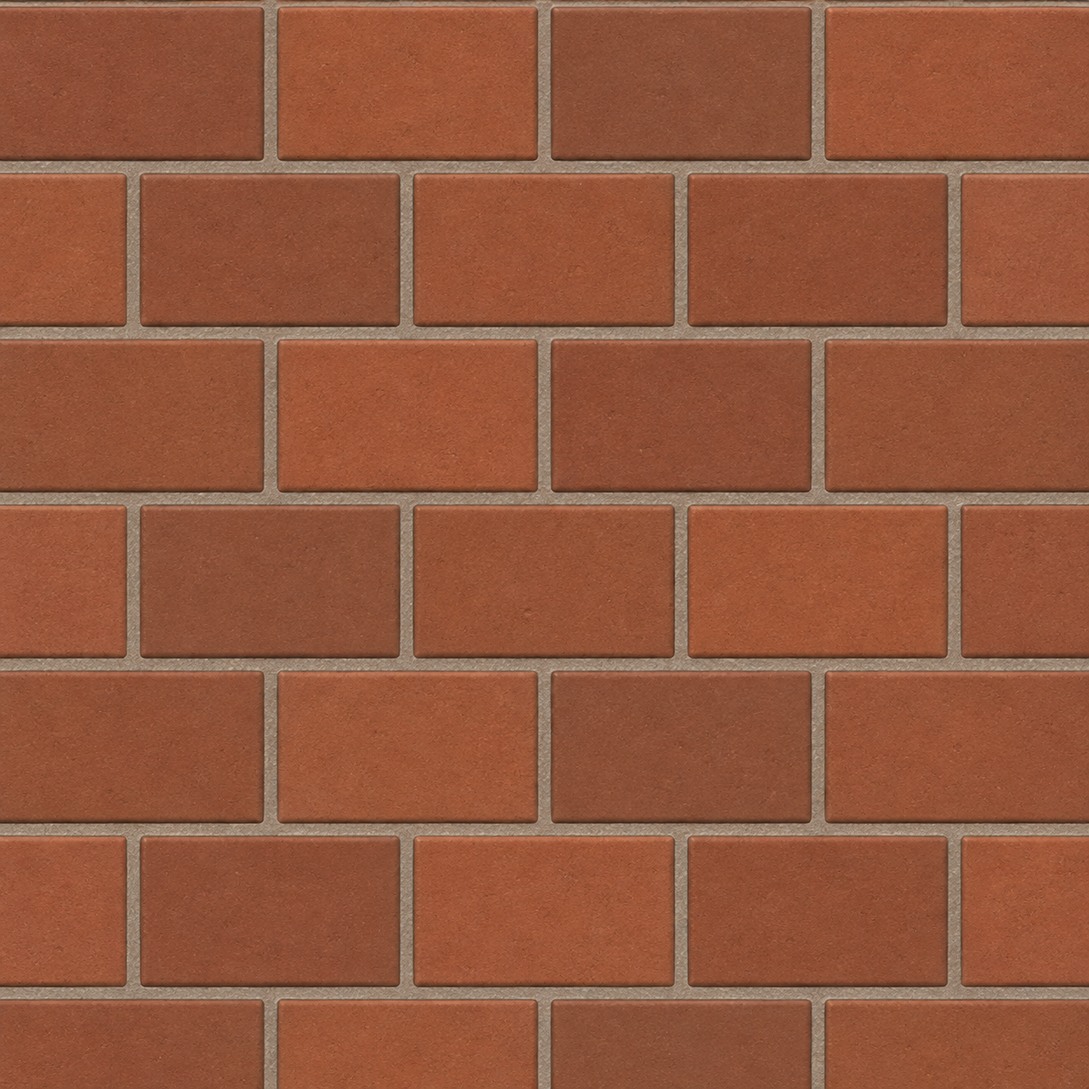
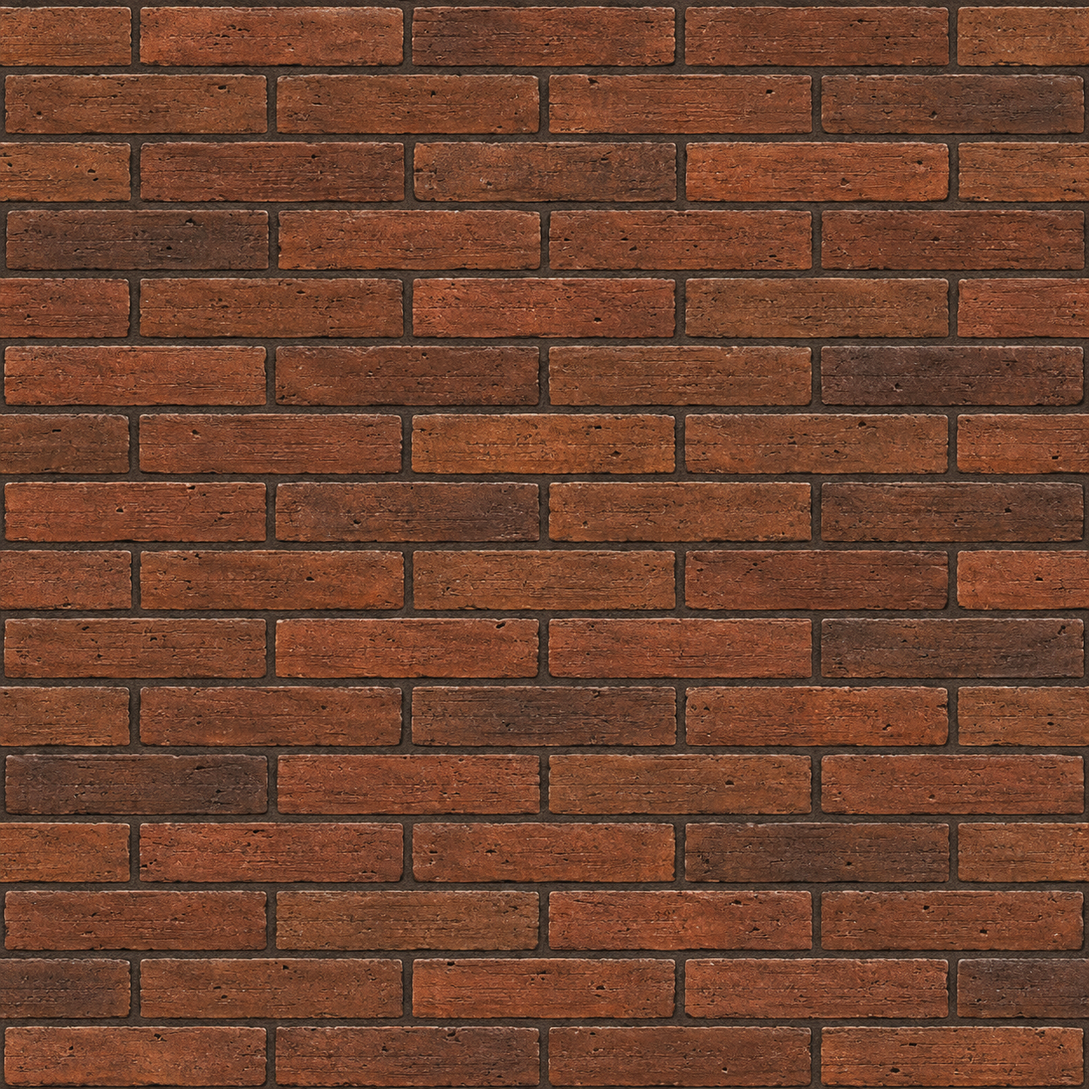
art: replace tiled shells and decks with tactile industrial materials

diff --git a/frontend/assets/industrial/space-preview.html b/frontend/assets/industrial/space-preview.html
@@ -4,7 +4,7 @@
 *{box-sizing:border-box}body{margin:0;background:#0e1419;color:#e3e8ea;font:16px/1.5 system-ui;padding:40px}header{max-width:860px;margin-bottom:40px}h1{font-size:44px;line-height:1.1;margin:12px 0}h2{font-size:24px;margin-top:44px}p{color:#a5b2bc}a{color:#c5af81}nav{display:flex;gap:20px}section{display:grid;grid-template-columns:repeat(3,minmax(0,1fr));gap:24px}article{min-width:0;background:#172027;border:1px solid #303d47;padding:16px}h3{margin:0 0 14px;font-size:17px}.art{display:block;width:100%;aspect-ratio:1;object-fit:cover}.wall .art{aspect-ratio:1.5}.repeat{height:144px;background-size:96px 96px}.wall .repeat{height:90px;background-size:144px 90px}small{display:block;color:#a5b2bc;margin:16px 0 8px}.eyebrow{font-size:12px;letter-spacing:.18em;color:#c5af81}footer{margin-top:36px}@media(max-width:900px){section{grid-template-columns:repeat(2,minmax(0,1fr))}body{padding:24px}}@media(max-width:600px){section{grid-template-columns:1fr}}
 </style>
 <header><div class="eyebrow">STARNET / MATERIAL LIBRARY / 11 NEW SURFACES</div><h1>Built for life in orbit.</h1><p>Thermal shields, clean walking decks and quiet habitat walls. Three space shells, four floors and four walls, with broad shapes and restrained detail.</p><nav><a href="#shell">Shells</a><a href="#floor">Floors</a><a href="#wall">Walls</a><a href="shell-clean-preview.html">Cleaner classics</a></nav><p>Choose these additions in REFIT → SURFACE. These swatches show the original artwork; the station applies your paint colour and lighting.</p></header>
-<h2 id="shell">01 / Space shells</h2><section><article class="shell"><h3>Thermal Ceramic</h3><a href="shell-thermal.png"><img class="art" src="shell-thermal.png" alt="Thermal Ceramic texture" loading="lazy"></a><small>REPEAT AT STATION SCALE</small><div class="repeat" style="background-image:url('shell-thermal.png')"></div></article><article class="shell"><h3>Orbital Insulation</h3><a href="shell-insulation.png"><img class="art" src="shell-insulation.png" alt="Orbital Insulation texture" loading="lazy"></a><small>REPEAT AT STATION SCALE</small><div class="repeat" style="background-image:url('shell-insulation.png')"></div></article><article class="shell"><h3>Radiator Cladding</h3><a href="shell-heatsink.png"><img class="art" src="shell-heatsink.png" alt="Radiator Cladding texture" loading="lazy"></a><small>REPEAT AT STATION SCALE</small><div class="repeat" style="background-image:url('shell-heatsink.png')"></div></article></section>
-<h2 id="floor">02 / Walking decks</h2><section><article class="floor"><h3>Flight Deck</h3><a href="floor-flightdeck.png"><img class="art" src="floor-flightdeck.png" alt="Flight Deck texture" loading="lazy"></a><small>REPEAT AT STATION SCALE</small><div class="repeat" style="background-image:url('floor-flightdeck.png')"></div></article><article class="floor"><h3>Lunar Composite</h3><a href="floor-lunar.png"><img class="art" src="floor-lunar.png" alt="Lunar Composite texture" loading="lazy"></a><small>REPEAT AT STATION SCALE</small><div class="repeat" style="background-image:url('floor-lunar.png')"></div></article><article class="floor"><h3>Magnetic Grid</h3><a href="floor-maggrid.png"><img class="art" src="floor-maggrid.png" alt="Magnetic Grid texture" loading="lazy"></a><small>REPEAT AT STATION SCALE</small><div class="repeat" style="background-image:url('floor-maggrid.png')"></div></article><article class="floor"><h3>Habitat Tile</h3><a href="floor-habitat.png"><img class="art" src="floor-habitat.png" alt="Habitat Tile texture" loading="lazy"></a><small>REPEAT AT STATION SCALE</small><div class="repeat" style="background-image:url('floor-habitat.png')"></div></article></section>
+<h2 id="shell">01 / Space shells</h2><section><article class="shell"><h3>Carbon Thermal Shield</h3><a href="shell-thermal.png"><img class="art" src="shell-thermal.png" alt="Carbon Thermal Shield texture" loading="lazy"></a><small>REPEAT AT STATION SCALE</small><div class="repeat" style="background-image:url('shell-thermal.png')"></div></article><article class="shell"><h3>Orbital Insulation</h3><a href="shell-insulation.png"><img class="art" src="shell-insulation.png" alt="Orbital Insulation texture" loading="lazy"></a><small>REPEAT AT STATION SCALE</small><div class="repeat" style="background-image:url('shell-insulation.png')"></div></article><article class="shell"><h3>Radiator Cladding</h3><a href="shell-heatsink.png"><img class="art" src="shell-heatsink.png" alt="Radiator Cladding texture" loading="lazy"></a><small>REPEAT AT STATION SCALE</small><div class="repeat" style="background-image:url('shell-heatsink.png')"></div></article></section>
+<h2 id="floor">02 / Walking decks</h2><section><article class="floor"><h3>Flight Deck</h3><a href="floor-flightdeck.png"><img class="art" src="floor-flightdeck.png" alt="Flight Deck texture" loading="lazy"></a><small>REPEAT AT STATION SCALE</small><div class="repeat" style="background-image:url('floor-flightdeck.png')"></div></article><article class="floor"><h3>Lunar Composite</h3><a href="floor-lunar.png"><img class="art" src="floor-lunar.png" alt="Lunar Composite texture" loading="lazy"></a><small>REPEAT AT STATION SCALE</small><div class="repeat" style="background-image:url('floor-lunar.png')"></div></article><article class="floor"><h3>Magnetic Grid</h3><a href="floor-maggrid.png"><img class="art" src="floor-maggrid.png" alt="Magnetic Grid texture" loading="lazy"></a><small>REPEAT AT STATION SCALE</small><div class="repeat" style="background-image:url('floor-maggrid.png')"></div></article><article class="floor"><h3>Habitat Rubber</h3><a href="floor-habitat.png"><img class="art" src="floor-habitat.png" alt="Habitat Rubber texture" loading="lazy"></a><small>REPEAT AT STATION SCALE</small><div class="repeat" style="background-image:url('floor-habitat.png')"></div></article></section>
 <h2 id="wall">03 / Interior walls</h2><section><article class="wall"><h3>Pressure Panels</h3><a href="wall-pressure.png"><img class="art" src="wall-pressure.png" alt="Pressure Panels texture" loading="lazy"></a><small>REPEAT AT STATION SCALE</small><div class="repeat" style="background-image:url('wall-pressure.png')"></div></article><article class="wall"><h3>Radiator Wall</h3><a href="wall-radiator.png"><img class="art" src="wall-radiator.png" alt="Radiator Wall texture" loading="lazy"></a><small>REPEAT AT STATION SCALE</small><div class="repeat" style="background-image:url('wall-radiator.png')"></div></article><article class="wall"><h3>Utility Panels</h3><a href="wall-utility.png"><img class="art" src="wall-utility.png" alt="Utility Panels texture" loading="lazy"></a><small>REPEAT AT STATION SCALE</small><div class="repeat" style="background-image:url('wall-utility.png')"></div></article><article class="wall"><h3>Padded Wall</h3><a href="wall-acoustic.png"><img class="art" src="wall-acoustic.png" alt="Padded Wall texture" loading="lazy"></a><small>REPEAT AT STATION SCALE</small><div class="repeat" style="background-image:url('wall-acoustic.png')"></div></article></section>
-<footer><a href="SPACE-MATERIALS.md">Exact generation prompts and asset notes</a></footer></html>
+<footer><a href="MATERIAL-REVISIONS.md">Exact generation prompts and asset notes</a></footer></html>

diff --git a/website/app/assets/industrial/space-preview.html b/website/app/assets/industrial/space-preview.html
@@ -4,7 +4,7 @@
 *{box-sizing:border-box}body{margin:0;background:#0e1419;color:#e3e8ea;font:16px/1.5 system-ui;padding:40px}header{max-width:860px;margin-bottom:40px}h1{font-size:44px;line-height:1.1;margin:12px 0}h2{font-size:24px;margin-top:44px}p{color:#a5b2bc}a{color:#c5af81}nav{display:flex;gap:20px}section{display:grid;grid-template-columns:repeat(3,minmax(0,1fr));gap:24px}article{min-width:0;background:#172027;border:1px solid #303d47;padding:16px}h3{margin:0 0 14px;font-size:17px}.art{display:block;width:100%;aspect-ratio:1;object-fit:cover}.wall .art{aspect-ratio:1.5}.repeat{height:144px;background-size:96px 96px}.wall .repeat{height:90px;background-size:144px 90px}small{display:block;color:#a5b2bc;margin:16px 0 8px}.eyebrow{font-size:12px;letter-spacing:.18em;color:#c5af81}footer{margin-top:36px}@media(max-width:900px){section{grid-template-columns:repeat(2,minmax(0,1fr))}body{padding:24px}}@media(max-width:600px){section{grid-template-columns:1fr}}
 </style>
 <header><div class="eyebrow">STARNET / MATERIAL LIBRARY / 11 NEW SURFACES</div><h1>Built for life in orbit.</h1><p>Thermal shields, clean walking decks and quiet habitat walls. Three space shells, four floors and four walls, with broad shapes and restrained detail.</p><nav><a href="#shell">Shells</a><a href="#floor">Floors</a><a href="#wall">Walls</a><a href="shell-clean-preview.html">Cleaner classics</a></nav><p>Choose these additions in REFIT → SURFACE. These swatches show the original artwork; the station applies your paint colour and lighting.</p></header>
-<h2 id="shell">01 / Space shells</h2><section><article class="shell"><h3>Thermal Ceramic</h3><a href="shell-thermal.png"><img class="art" src="shell-thermal.png" alt="Thermal Ceramic texture" loading="lazy"></a><small>REPEAT AT STATION SCALE</small><div class="repeat" style="background-image:url('shell-thermal.png')"></div></article><article class="shell"><h3>Orbital Insulation</h3><a href="shell-insulation.png"><img class="art" src="shell-insulation.png" alt="Orbital Insulation texture" loading="lazy"></a><small>REPEAT AT STATION SCALE</small><div class="repeat" style="background-image:url('shell-insulation.png')"></div></article><article class="shell"><h3>Radiator Cladding</h3><a href="shell-heatsink.png"><img class="art" src="shell-heatsink.png" alt="Radiator Cladding texture" loading="lazy"></a><small>REPEAT AT STATION SCALE</small><div class="repeat" style="background-image:url('shell-heatsink.png')"></div></article></section>
-<h2 id="floor">02 / Walking decks</h2><section><article class="floor"><h3>Flight Deck</h3><a href="floor-flightdeck.png"><img class="art" src="floor-flightdeck.png" alt="Flight Deck texture" loading="lazy"></a><small>REPEAT AT STATION SCALE</small><div class="repeat" style="background-image:url('floor-flightdeck.png')"></div></article><article class="floor"><h3>Lunar Composite</h3><a href="floor-lunar.png"><img class="art" src="floor-lunar.png" alt="Lunar Composite texture" loading="lazy"></a><small>REPEAT AT STATION SCALE</small><div class="repeat" style="background-image:url('floor-lunar.png')"></div></article><article class="floor"><h3>Magnetic Grid</h3><a href="floor-maggrid.png"><img class="art" src="floor-maggrid.png" alt="Magnetic Grid texture" loading="lazy"></a><small>REPEAT AT STATION SCALE</small><div class="repeat" style="background-image:url('floor-maggrid.png')"></div></article><article class="floor"><h3>Habitat Tile</h3><a href="floor-habitat.png"><img class="art" src="floor-habitat.png" alt="Habitat Tile texture" loading="lazy"></a><small>REPEAT AT STATION SCALE</small><div class="repeat" style="background-image:url('floor-habitat.png')"></div></article></section>
+<h2 id="shell">01 / Space shells</h2><section><article class="shell"><h3>Carbon Thermal Shield</h3><a href="shell-thermal.png"><img class="art" src="shell-thermal.png" alt="Carbon Thermal Shield texture" loading="lazy"></a><small>REPEAT AT STATION SCALE</small><div class="repeat" style="background-image:url('shell-thermal.png')"></div></article><article class="shell"><h3>Orbital Insulation</h3><a href="shell-insulation.png"><img class="art" src="shell-insulation.png" alt="Orbital Insulation texture" loading="lazy"></a><small>REPEAT AT STATION SCALE</small><div class="repeat" style="background-image:url('shell-insulation.png')"></div></article><article class="shell"><h3>Radiator Cladding</h3><a href="shell-heatsink.png"><img class="art" src="shell-heatsink.png" alt="Radiator Cladding texture" loading="lazy"></a><small>REPEAT AT STATION SCALE</small><div class="repeat" style="background-image:url('shell-heatsink.png')"></div></article></section>
+<h2 id="floor">02 / Walking decks</h2><section><article class="floor"><h3>Flight Deck</h3><a href="floor-flightdeck.png"><img class="art" src="floor-flightdeck.png" alt="Flight Deck texture" loading="lazy"></a><small>REPEAT AT STATION SCALE</small><div class="repeat" style="background-image:url('floor-flightdeck.png')"></div></article><article class="floor"><h3>Lunar Composite</h3><a href="floor-lunar.png"><img class="art" src="floor-lunar.png" alt="Lunar Composite texture" loading="lazy"></a><small>REPEAT AT STATION SCALE</small><div class="repeat" style="background-image:url('floor-lunar.png')"></div></article><article class="floor"><h3>Magnetic Grid</h3><a href="floor-maggrid.png"><img class="art" src="floor-maggrid.png" alt="Magnetic Grid texture" loading="lazy"></a><small>REPEAT AT STATION SCALE</small><div class="repeat" style="background-image:url('floor-maggrid.png')"></div></article><article class="floor"><h3>Habitat Rubber</h3><a href="floor-habitat.png"><img class="art" src="floor-habitat.png" alt="Habitat Rubber texture" loading="lazy"></a><small>REPEAT AT STATION SCALE</small><div class="repeat" style="background-image:url('floor-habitat.png')"></div></article></section>
 <h2 id="wall">03 / Interior walls</h2><section><article class="wall"><h3>Pressure Panels</h3><a href="wall-pressure.png"><img class="art" src="wall-pressure.png" alt="Pressure Panels texture" loading="lazy"></a><small>REPEAT AT STATION SCALE</small><div class="repeat" style="background-image:url('wall-pressure.png')"></div></article><article class="wall"><h3>Radiator Wall</h3><a href="wall-radiator.png"><img class="art" src="wall-radiator.png" alt="Radiator Wall texture" loading="lazy"></a><small>REPEAT AT STATION SCALE</small><div class="repeat" style="background-image:url('wall-radiator.png')"></div></article><article class="wall"><h3>Utility Panels</h3><a href="wall-utility.png"><img class="art" src="wall-utility.png" alt="Utility Panels texture" loading="lazy"></a><small>REPEAT AT STATION SCALE</small><div class="repeat" style="background-image:url('wall-utility.png')"></div></article><article class="wall"><h3>Padded Wall</h3><a href="wall-acoustic.png"><img class="art" src="wall-acoustic.png" alt="Padded Wall texture" loading="lazy"></a><small>REPEAT AT STATION SCALE</small><div class="repeat" style="background-image:url('wall-acoustic.png')"></div></article></section>
-<footer><a href="SPACE-MATERIALS.md">Exact generation prompts and asset notes</a></footer></html>
+<footer><a href="MATERIAL-REVISIONS.md">Exact generation prompts and asset notes</a></footer></html>

diff --git a/frontend/app/worldmodel.js b/frontend/app/worldmodel.js
@@ -222,9 +222,9 @@ const WorldModel = (() => {
     terrazzo: { label: 'TERRAZZO', pitch: [4, 4], suggest: 'hull' },
     octile:   { label: 'OCTILE',   pitch: [2, 2], suggest: 'sterile' },
     flightdeck: { label: 'FLIGHT DECK', pitch: [2, 2], suggest: 'hull' },
-    lunar: { label: 'LUNAR', pitch: [4, 2], suggest: 'ash' },
+    lunar: { label: 'LUNAR', pitch: [4, 2], suggest: 'sterile' },
     maggrid: { label: 'MAG GRID', pitch: [2, 2], suggest: 'corridor' },
-    habitat: { label: 'HABITAT', pitch: [2, 2], suggest: 'bone' },
+    habitat: { label: 'HABITAT', pitch: [2, 2], suggest: 'corridor' },
   };
   const MAT_ORDER = ['spine', 'alloy', 'runner', 'treadway', 'meshway', 'plate', 'diamond', 'cargo', 'panel', 'tile', 'ceramic', 'resin', 'tread', 'soft', 'grate', 'hex', 'plank', 'turf', 'basalt', 'parquet', 'rubber', 'slotted', 'terrazzo', 'octile', 'flightdeck', 'lunar', 'maggrid', 'habitat'];
 
@@ -282,14 +282,14 @@ const WorldModel = (() => {
     timber:    { label: 'TIMBER',    suggest: 'walnut', blurb: 'stacked log courses — the cabin' },
     clapboard: { label: 'CLAPBOARD', suggest: 'ash',    blurb: 'lapped siding boards — the farmhouse' },
     shingle:   { label: 'SHINGLE',   suggest: 'oak',    blurb: 'overlapping shingles — a pitched roof from above' },
-    brick:     { label: 'BRICK',     suggest: 'rust',   blurb: 'staggered courses + mortar — the townhouse' },
+    brick:     { label: 'BRICK',     suggest: 'ember',  blurb: 'narrow fired-clay masonry with dark recessed mortar' },
     stone:     { label: 'STONE',     suggest: 'ash',    blurb: 'irregular rubble masonry — the cottage' },
     stucco:    { label: 'STUCCO',    suggest: 'amber',  blurb: 'rendered plaster + corner quoins — adobe' },
     curtain:   { label: 'CURTAIN',   suggest: 'indigo', blurb: 'glass curtain wall + mullions — the tower' },
     hedge:     { label: 'HEDGE',     suggest: 'fern',   blurb: 'clipped hedge — the garden wall' },
   };
   Object.assign(HULL_MATERIALS, {
-    thermal: { label: 'THERMAL', suggest: 'bone', blurb: 'clean ceramic thermal shield with broad staggered panels' },
+    thermal: { label: 'THERMAL', suggest: 'hull', blurb: 'dark carbon thermal shielding with interlocking armor panels' },
     insulation: { label: 'INSULATION', suggest: 'amber', blurb: 'quilted orbital insulation with restrained foil folds' },
     heatsink: { label: 'HEATSINK', suggest: 'hull', blurb: 'radiator fins between calm graphite cladding panels' }
   });

diff --git a/website/app/app/worldmodel.js b/website/app/app/worldmodel.js
@@ -222,9 +222,9 @@ const WorldModel = (() => {
     terrazzo: { label: 'TERRAZZO', pitch: [4, 4], suggest: 'hull' },
     octile:   { label: 'OCTILE',   pitch: [2, 2], suggest: 'sterile' },
     flightdeck: { label: 'FLIGHT DECK', pitch: [2, 2], suggest: 'hull' },
-    lunar: { label: 'LUNAR', pitch: [4, 2], suggest: 'ash' },
+    lunar: { label: 'LUNAR', pitch: [4, 2], suggest: 'sterile' },
     maggrid: { label: 'MAG GRID', pitch: [2, 2], suggest: 'corridor' },
-    habitat: { label: 'HABITAT', pitch: [2, 2], suggest: 'bone' },
+    habitat: { label: 'HABITAT', pitch: [2, 2], suggest: 'corridor' },
   };
   const MAT_ORDER = ['spine', 'alloy', 'runner', 'treadway', 'meshway', 'plate', 'diamond', 'cargo', 'panel', 'tile', 'ceramic', 'resin', 'tread', 'soft', 'grate', 'hex', 'plank', 'turf', 'basalt', 'parquet', 'rubber', 'slotted', 'terrazzo', 'octile', 'flightdeck', 'lunar', 'maggrid', 'habitat'];
 
@@ -282,14 +282,14 @@ const WorldModel = (() => {
     timber:    { label: 'TIMBER',    suggest: 'walnut', blurb: 'stacked log courses — the cabin' },
     clapboard: { label: 'CLAPBOARD', suggest: 'ash',    blurb: 'lapped siding boards — the farmhouse' },
     shingle:   { label: 'SHINGLE',   suggest: 'oak',    blurb: 'overlapping shingles — a pitched roof from above' },
-    brick:     { label: 'BRICK',     suggest: 'rust',   blurb: 'staggered courses + mortar — the townhouse' },
+    brick:     { label: 'BRICK',     suggest: 'ember',  blurb: 'narrow fired-clay masonry with dark recessed mortar' },
     stone:     { label: 'STONE',     suggest: 'ash',    blurb: 'irregular rubble masonry — the cottage' },
     stucco:    { label: 'STUCCO',    suggest: 'amber',  blurb: 'rendered plaster + corner quoins — adobe' },
     curtain:   { label: 'CURTAIN',   suggest: 'indigo', blurb: 'glass curtain wall + mullions — the tower' },
     hedge:     { label: 'HEDGE',     suggest: 'fern',   blurb: 'clipped hedge — the garden wall' },
   };
   Object.assign(HULL_MATERIALS, {
-    thermal: { label: 'THERMAL', suggest: 'bone', blurb: 'clean ceramic thermal shield with broad staggered panels' },
+    thermal: { label: 'THERMAL', suggest: 'hull', blurb: 'dark carbon thermal shielding with interlocking armor panels' },
     insulation: { label: 'INSULATION', suggest: 'amber', blurb: 'quilted orbital insulation with restrained foil folds' },
     heatsink: { label: 'HEATSINK', suggest: 'hull', blurb: 'radiator fins between calm graphite cladding panels' }
   });

diff --git a/frontend/assets/industrial/MATERIAL-REVISIONS.md b/frontend/assets/industrial/MATERIAL-REVISIONS.md
@@ -1,0 +1,60 @@
+# Material revisions — September 16, 2026
+
+Replaces the rejected brick, white thermal cladding, default deck and four added floors. Built-in ImageGen, one new generation per texture. Files are unedited originals. Selected room paint remains authoritative; suggested colours now use ember for brick, hull for carbon thermal cladding, sterile for lunar and decking for habitat rubber.
+
+## Fired-clay masonry
+
+[shell-brick.png](shell-brick.png)
+
+Exact prompt:
+
+> Create one production-quality StarNet game material texture, square 1024x1024. A single orthographic flat surface filling every pixel. Precisely tileable seamless left/right and top/bottom. Equal diffuse illumination throughout, NO baked directional lighting, vignette or cast shadows. Every pixel fully opaque. Rich believable surface material with controlled low contrast, clean structure but naturally tactile surfaces. Strong material identity survives reduction to small game scale. No scene, perspective, room, props, border, caption, text, insignia, symbols or emissive lights. Exterior brick masonry. Authentic narrow handmade fired-clay bricks, rich russet, burnt sienna, iron brown and occasional darker umber bricks. Bricks approximately 3.6 times wider than tall; eight staggered running-bond courses. Each face has compressed clay striations and fine shallow irregular pits with subtly chipped squared edges. Very thin recessed DARK charcoal-brown mortar, never white mortar. Understated natural variation between bricks, warm earthy muted colors, not saturated orange. No bevelled tiles, glaze, glossy ceramic, rounded soap-bar edges, bolts, white brick or bathroom finish. Brick faces are dominant, joints unobtrusive. Disciplined believable maintained industrial masonry, not ruins.
+
+## Station deck
+
+[floor.png](floor.png)
+
+Exact prompt:
+
+> Create one production-quality StarNet game material texture, square 1024x1024. A single orthographic flat surface filling every pixel. Precisely tileable seamless left/right and top/bottom. Equal diffuse illumination throughout, NO baked directional lighting, vignette or cast shadows. Every pixel fully opaque. Rich believable surface material with controlled low contrast, clean structure but naturally tactile surfaces. Strong material identity survives reduction to small game scale. No scene, perspective, room, props, border, caption, text, insignia, symbols or emissive lights. TOP DOWN worn gunmetal spacecraft walking deck. Three broad staggered rectangular rolled-steel plates per row, three rows, not a chessboard of framed hatches. Flat broad charcoal-bluish steel surfaces with fine directional rolling marks, gentle large-scale tonal shifts, a few thin restrained shoe scuffs and small naturally rubbed steel marks. Tight hairline recessed joints in running bond. Very sparse tiny flush fasteners beside joins. Zero decorative square borders, connector nodes, gold lines, grilles, holes, raised frames, cracked rock, plastic or tessellated hex microtexture. Maintained ship interior with tactile used steel, not destroyed, no dirt blanket. Calm enough for game characters and furniture to read.
+
+## Flight deck revision
+
+[floor-flightdeck.png](floor-flightdeck.png)
+
+Exact prompt:
+
+> Create one production-quality StarNet game material texture, square 1024x1024. A single orthographic flat surface filling every pixel. Precisely tileable seamless left/right and top/bottom. Equal diffuse illumination throughout, NO baked directional lighting, vignette or cast shadows. Every pixel fully opaque. Rich believable surface material with controlled low contrast, clean structure but naturally tactile surfaces. Strong material identity survives reduction to small game scale. No scene, perspective, room, props, border, caption, text, insignia, symbols or emissive lights. TOP DOWN spacecraft hangar walking deck of large rectangular dark graphite nonslip steel plates, two long plates across and four courses tall, staggered narrow joints. Restrained very fine rolled traction texture integrated into metal, broad calm central faces. A pair of narrow dull desaturated ochre painted alignment ticks near a single panel seam in each repeating unit, understated and partly rubbed through. Thin flush expansion joints and extremely sparse inset screws. No octagonal tiles, no square connector buttons, no perimeter borders around each plate, no rails, no vents, no text, no hazard stripes. Convincing durable naval spacecraft flooring, sophisticated austere industrial design.
+
+## Basalt composite revision
+
+[floor-lunar.png](floor-lunar.png)
+
+Exact prompt:
+
+> Create one production-quality StarNet game material texture, square 1024x1024. A single orthographic flat surface filling every pixel. Precisely tileable seamless left/right and top/bottom. Equal diffuse illumination throughout, NO baked directional lighting, vignette or cast shadows. Every pixel fully opaque. Rich believable surface material with controlled low contrast, clean structure but naturally tactile surfaces. Strong material identity survives reduction to small game scale. No scene, perspective, room, props, border, caption, text, insignia, symbols or emissive lights. TOP DOWN continuous dark slate-gray mineral composite floor cast in two broad horizontal pours, one extremely subtle hairline construction joint halfway down. Fine dense sintered basalt texture, restrained irregular mineral flecks, gentle broad organic variation, smooth foot-worn matte surface. Dark neutral gray with tiny muted blue-gray mineral notes, dense and solid. No light concrete slabs, kitchen stone tiles, grout grid, rocks, craters, gravel, cracks, marble veins, bright speckles or shiny patches. Elegant serious spacecraft laboratory/workshop floor, low contrast and tactile.
+
+## Recessed-track deck revision
+
+[floor-maggrid.png](floor-maggrid.png)
+
+Exact prompt:
+
+> Create one production-quality StarNet game material texture, square 1024x1024. A single orthographic flat surface filling every pixel. Precisely tileable seamless left/right and top/bottom. Equal diffuse illumination throughout, NO baked directional lighting, vignette or cast shadows. Every pixel fully opaque. Rich believable surface material with controlled low contrast, clean structure but naturally tactile surfaces. Strong material identity survives reduction to small game scale. No scene, perspective, room, props, border, caption, text, insignia, symbols or emissive lights. TOP DOWN dark oxidized titanium utility walking floor. Broad charcoal metal strips run vertically, flush fitted, quiet satin brushed texture with sparse tiny scuff marks. Two extremely narrow dark recessed magnetic docking channels cross the image vertically at one quarter and three quarters width, with subtle muted steel inner edge. Otherwise uninterrupted plain surface; crosswise butt joins are staggered and hairline thin. No bright silver frames, no lattice, no four-sided square panel borders, no chunky junction boxes, no raised track rails, no high contrast checkerboard. Restrained crafted ship engineering, precise but worn in.
+
+## Habitat rubber revision
+
+[floor-habitat.png](floor-habitat.png)
+
+Exact prompt:
+
+> Create one production-quality StarNet game material texture, square 1024x1024. A single orthographic flat surface filling every pixel. Precisely tileable seamless left/right and top/bottom. Equal diffuse illumination throughout, NO baked directional lighting, vignette or cast shadows. Every pixel fully opaque. Rich believable surface material with controlled low contrast, clean structure but naturally tactile surfaces. Strong material identity survives reduction to small game scale. No scene, perspective, room, props, border, caption, text, insignia, symbols or emissive lights. TOP DOWN warm charcoal resilient rubber-composite spacecraft habitat flooring. Broad near-continuous matte dark surface, sparse subtle fine cork-brown and graphite granules embedded into material, tiny occasional compressed shoe wear marks. Two broad floor sheets joined by very faint thin flush staggered seams; seams barely visible and never form regular square tiles. Comfortable practical mature sci-fi habitat flooring. No ivory ceramic, bathroom tiles, white grout, corner inserts, shiny metal, carpet weave, crackle, spots, logos or text. Tonally quiet, tactile, understated material richness.
+
+## Carbon thermal cladding revision
+
+[shell-thermal.png](shell-thermal.png)
+
+Exact prompt:
+
+> Create one production-quality StarNet game material texture, square 1024x1024. A single orthographic flat surface filling every pixel. Precisely tileable seamless left/right and top/bottom. Equal diffuse illumination throughout, NO baked directional lighting, vignette or cast shadows. Every pixel fully opaque. Rich believable surface material with controlled low contrast, clean structure but naturally tactile surfaces. Strong material identity survives reduction to small game scale. No scene, perspective, room, props, border, caption, text, insignia, symbols or emissive lights. Exterior spacecraft carbon-carbon thermal shielding. Broad interlocking dark graphite asymmetric flat armor panels with shallow angular cut corners, narrow black expansion gaps, subtly varied charcoal faces, fine satin carbon-ceramic material texture. Three wide panel bays with offset transverse joins. Sparse tiny recessed attachment points. Almost flat, heavily restrained engineering. No rectangular brick courses, no offwhite or white tiles, no bathroom or subway tiles, no quilted padding, no repeated chunky bolts, no luminous edges, no deep greebles. Architectural ship cladding with mature quiet industrial realism.
+

diff --git a/website/app/assets/industrial/MATERIAL-REVISIONS.md b/website/app/assets/industrial/MATERIAL-REVISIONS.md
@@ -1,0 +1,60 @@
+# Material revisions — September 16, 2026
+
+Replaces the rejected brick, white thermal cladding, default deck and four added floors. Built-in ImageGen, one new generation per texture. Files are unedited originals. Selected room paint remains authoritative; suggested colours now use ember for brick, hull for carbon thermal cladding, sterile for lunar and decking for habitat rubber.
+
+## Fired-clay masonry
+
+[shell-brick.png](shell-brick.png)
+
+Exact prompt:
+
+> Create one production-quality StarNet game material texture, square 1024x1024. A single orthographic flat surface filling every pixel. Precisely tileable seamless left/right and top/bottom. Equal diffuse illumination throughout, NO baked directional lighting, vignette or cast shadows. Every pixel fully opaque. Rich believable surface material with controlled low contrast, clean structure but naturally tactile surfaces. Strong material identity survives reduction to small game scale. No scene, perspective, room, props, border, caption, text, insignia, symbols or emissive lights. Exterior brick masonry. Authentic narrow handmade fired-clay bricks, rich russet, burnt sienna, iron brown and occasional darker umber bricks. Bricks approximately 3.6 times wider than tall; eight staggered running-bond courses. Each face has compressed clay striations and fine shallow irregular pits with subtly chipped squared edges. Very thin recessed DARK charcoal-brown mortar, never white mortar. Understated natural variation between bricks, warm earthy muted colors, not saturated orange. No bevelled tiles, glaze, glossy ceramic, rounded soap-bar edges, bolts, white brick or bathroom finish. Brick faces are dominant, joints unobtrusive. Disciplined believable maintained industrial masonry, not ruins.
+
+## Station deck
+
+[floor.png](floor.png)
+
+Exact prompt:
+
+> Create one production-quality StarNet game material texture, square 1024x1024. A single orthographic flat surface filling every pixel. Precisely tileable seamless left/right and top/bottom. Equal diffuse illumination throughout, NO baked directional lighting, vignette or cast shadows. Every pixel fully opaque. Rich believable surface material with controlled low contrast, clean structure but naturally tactile surfaces. Strong material identity survives reduction to small game scale. No scene, perspective, room, props, border, caption, text, insignia, symbols or emissive lights. TOP DOWN worn gunmetal spacecraft walking deck. Three broad staggered rectangular rolled-steel plates per row, three rows, not a chessboard of framed hatches. Flat broad charcoal-bluish steel surfaces with fine directional rolling marks, gentle large-scale tonal shifts, a few thin restrained shoe scuffs and small naturally rubbed steel marks. Tight hairline recessed joints in running bond. Very sparse tiny flush fasteners beside joins. Zero decorative square borders, connector nodes, gold lines, grilles, holes, raised frames, cracked rock, plastic or tessellated hex microtexture. Maintained ship interior with tactile used steel, not destroyed, no dirt blanket. Calm enough for game characters and furniture to read.
+
+## Flight deck revision
+
+[floor-flightdeck.png](floor-flightdeck.png)
+
+Exact prompt:
+
+> Create one production-quality StarNet game material texture, square 1024x1024. A single orthographic flat surface filling every pixel. Precisely tileable seamless left/right and top/bottom. Equal diffuse illumination throughout, NO baked directional lighting, vignette or cast shadows. Every pixel fully opaque. Rich believable surface material with controlled low contrast, clean structure but naturally tactile surfaces. Strong material identity survives reduction to small game scale. No scene, perspective, room, props, border, caption, text, insignia, symbols or emissive lights. TOP DOWN spacecraft hangar walking deck of large rectangular dark graphite nonslip steel plates, two long plates across and four courses tall, staggered narrow joints. Restrained very fine rolled traction texture integrated into metal, broad calm central faces. A pair of narrow dull desaturated ochre painted alignment ticks near a single panel seam in each repeating unit, understated and partly rubbed through. Thin flush expansion joints and extremely sparse inset screws. No octagonal tiles, no square connector buttons, no perimeter borders around each plate, no rails, no vents, no text, no hazard stripes. Convincing durable naval spacecraft flooring, sophisticated austere industrial design.
+
+## Basalt composite revision
+
+[floor-lunar.png](floor-lunar.png)
+
+Exact prompt:
+
+> Create one production-quality StarNet game material texture, square 1024x1024. A single orthographic flat surface filling every pixel. Precisely tileable seamless left/right and top/bottom. Equal diffuse illumination throughout, NO baked directional lighting, vignette or cast shadows. Every pixel fully opaque. Rich believable surface material with controlled low contrast, clean structure but naturally tactile surfaces. Strong material identity survives reduction to small game scale. No scene, perspective, room, props, border, caption, text, insignia, symbols or emissive lights. TOP DOWN continuous dark slate-gray mineral composite floor cast in two broad horizontal pours, one extremely subtle hairline construction joint halfway down. Fine dense sintered basalt texture, restrained irregular mineral flecks, gentle broad organic variation, smooth foot-worn matte surface. Dark neutral gray with tiny muted blue-gray mineral notes, dense and solid. No light concrete slabs, kitchen stone tiles, grout grid, rocks, craters, gravel, cracks, marble veins, bright speckles or shiny patches. Elegant serious spacecraft laboratory/workshop floor, low contrast and tactile.
+
+## Recessed-track deck revision
+
+[floor-maggrid.png](floor-maggrid.png)
+
+Exact prompt:
+
+> Create one production-quality StarNet game material texture, square 1024x1024. A single orthographic flat surface filling every pixel. Precisely tileable seamless left/right and top/bottom. Equal diffuse illumination throughout, NO baked directional lighting, vignette or cast shadows. Every pixel fully opaque. Rich believable surface material with controlled low contrast, clean structure but naturally tactile surfaces. Strong material identity survives reduction to small game scale. No scene, perspective, room, props, border, caption, text, insignia, symbols or emissive lights. TOP DOWN dark oxidized titanium utility walking floor. Broad charcoal metal strips run vertically, flush fitted, quiet satin brushed texture with sparse tiny scuff marks. Two extremely narrow dark recessed magnetic docking channels cross the image vertically at one quarter and three quarters width, with subtle muted steel inner edge. Otherwise uninterrupted plain surface; crosswise butt joins are staggered and hairline thin. No bright silver frames, no lattice, no four-sided square panel borders, no chunky junction boxes, no raised track rails, no high contrast checkerboard. Restrained crafted ship engineering, precise but worn in.
+
+## Habitat rubber revision
+
+[floor-habitat.png](floor-habitat.png)
+
+Exact prompt:
+
+> Create one production-quality StarNet game material texture, square 1024x1024. A single orthographic flat surface filling every pixel. Precisely tileable seamless left/right and top/bottom. Equal diffuse illumination throughout, NO baked directional lighting, vignette or cast shadows. Every pixel fully opaque. Rich believable surface material with controlled low contrast, clean structure but naturally tactile surfaces. Strong material identity survives reduction to small game scale. No scene, perspective, room, props, border, caption, text, insignia, symbols or emissive lights. TOP DOWN warm charcoal resilient rubber-composite spacecraft habitat flooring. Broad near-continuous matte dark surface, sparse subtle fine cork-brown and graphite granules embedded into material, tiny occasional compressed shoe wear marks. Two broad floor sheets joined by very faint thin flush staggered seams; seams barely visible and never form regular square tiles. Comfortable practical mature sci-fi habitat flooring. No ivory ceramic, bathroom tiles, white grout, corner inserts, shiny metal, carpet weave, crackle, spots, logos or text. Tonally quiet, tactile, understated material richness.
+
+## Carbon thermal cladding revision
+
+[shell-thermal.png](shell-thermal.png)
+
+Exact prompt:
+
+> Create one production-quality StarNet game material texture, square 1024x1024. A single orthographic flat surface filling every pixel. Precisely tileable seamless left/right and top/bottom. Equal diffuse illumination throughout, NO baked directional lighting, vignette or cast shadows. Every pixel fully opaque. Rich believable surface material with controlled low contrast, clean structure but naturally tactile surfaces. Strong material identity survives reduction to small game scale. No scene, perspective, room, props, border, caption, text, insignia, symbols or emissive lights. Exterior spacecraft carbon-carbon thermal shielding. Broad interlocking dark graphite asymmetric flat armor panels with shallow angular cut corners, narrow black expansion gaps, subtly varied charcoal faces, fine satin carbon-ceramic material texture. Three wide panel bays with offset transverse joins. Sparse tiny recessed attachment points. Almost flat, heavily restrained engineering. No rectangular brick courses, no offwhite or white tiles, no bathroom or subway tiles, no quilted padding, no repeated chunky bolts, no luminous edges, no deep greebles. Architectural ship cladding with mature quiet industrial realism.
+

diff --git a/frontend/assets/industrial/SHELL-MATERIALS.md b/frontend/assets/industrial/SHELL-MATERIALS.md
@@ -1,5 +1,7 @@
 # Cleaner shell materials
 
+Revision notice: brick, thermal shielding and floors were reworked after visual feedback. Current artwork and exact replacement prompts are documented in [MATERIAL-REVISIONS.md](MATERIAL-REVISIONS.md). The original prompts below describe the earlier generation.
+
 Generated with the built-in imagegen tool, September 15, 2026. Original output PNGs retained without image postprocessing. Existing shell IDs now use these textures in the industrial pack, with the original procedural recipes retained for classic mode or missing assets. Saved paint colours are applied to normalized texture luminance at runtime; the station's contour mask and exposure still own shell geometry and depth. Full originals are 1254 × 1254; tinted runtime tiles are cached at 576 × 576 (at most 24 colour/material combinations).
 
 The clean/simple directions are monocoque plate, clapboard siding, stucco and the additional `shell-variants/slate-courses.png` study. `shell.png` remains the current industrial station default. No saved material IDs change.

diff --git a/website/app/assets/industrial/SHELL-MATERIALS.md b/website/app/assets/industrial/SHELL-MATERIALS.md
@@ -1,5 +1,7 @@
 # Cleaner shell materials
 
+Revision notice: brick, thermal shielding and floors were reworked after visual feedback. Current artwork and exact replacement prompts are documented in [MATERIAL-REVISIONS.md](MATERIAL-REVISIONS.md). The original prompts below describe the earlier generation.
+
 Generated with the built-in imagegen tool, September 15, 2026. Original output PNGs retained without image postprocessing. Existing shell IDs now use these textures in the industrial pack, with the original procedural recipes retained for classic mode or missing assets. Saved paint colours are applied to normalized texture luminance at runtime; the station's contour mask and exposure still own shell geometry and depth. Full originals are 1254 × 1254; tinted runtime tiles are cached at 576 × 576 (at most 24 colour/material combinations).
 
 The clean/simple directions are monocoque plate, clapboard siding, stucco and the additional `shell-variants/slate-courses.png` study. `shell.png` remains the current industrial station default. No saved material IDs change.

diff --git a/frontend/assets/industrial/SPACE-MATERIALS.md b/frontend/assets/industrial/SPACE-MATERIALS.md
@@ -1,5 +1,7 @@
 # Space materials — September 15, 2026
 
+Revision notice: brick, thermal shielding and floors were reworked after visual feedback. Current artwork and exact replacement prompts are documented in [MATERIAL-REVISIONS.md](MATERIAL-REVISIONS.md). The original prompts below describe the earlier generation.
+
 Eleven additive materials for REFIT → SURFACE. Original, unedited PNGs generated with the built-in ImageGen tool, one generation per asset. The renderer normalizes relief into the selected paint hue, owns opacity and applies station lighting. Optional asset failures retain procedural material fallbacks.
 
 ## Thermal Ceramic (shell/thermal)

diff --git a/website/app/assets/industrial/SPACE-MATERIALS.md b/website/app/assets/industrial/SPACE-MATERIALS.md
@@ -1,5 +1,7 @@
 # Space materials — September 15, 2026
 
+Revision notice: brick, thermal shielding and floors were reworked after visual feedback. Current artwork and exact replacement prompts are documented in [MATERIAL-REVISIONS.md](MATERIAL-REVISIONS.md). The original prompts below describe the earlier generation.
+
 Eleven additive materials for REFIT → SURFACE. Original, unedited PNGs generated with the built-in ImageGen tool, one generation per asset. The renderer normalizes relief into the selected paint hue, owns opacity and applies station lighting. Optional asset failures retain procedural material fallbacks.
 
 ## Thermal Ceramic (shell/thermal)
